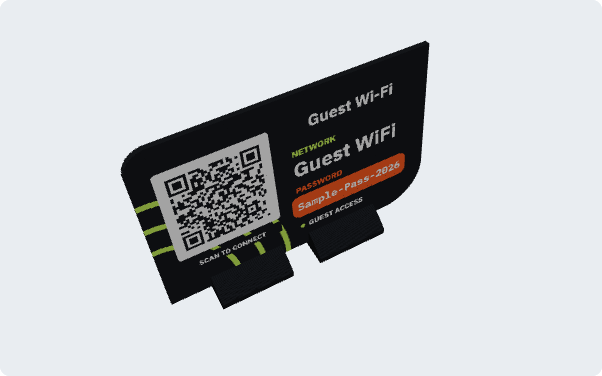
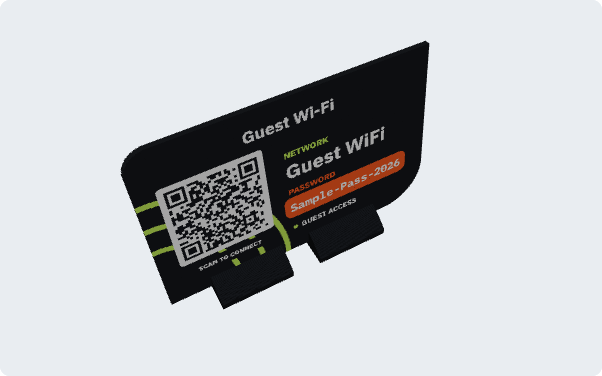
Center the heading across the whole card in a top row

Changed region(s): [[0.2392, 0.2048, 0.6877, 0.7314]]

diff --git a/index.html b/index.html
@@ -60,26 +60,26 @@ button:hover:not(:disabled){filter:brightness(1.06)}
 .stage{display:grid;gap:16px;justify-items:center}
 .wifi-card{width:min(100%,640px);aspect-ratio:150/94;background:var(--c-base);color:var(--c-white);
   border-radius:8% 0 16% 0 / 12.766% 0 25.532% 0;
-  padding:5.5% 6% 11% 6.7%;position:relative;display:grid;grid-template-columns:auto 1fr;gap:5%;align-items:center;
+  padding:5.5% 6% 8% 6.7%;position:relative;display:grid;grid-template-columns:auto 1fr;grid-template-rows:auto 1fr;gap:2cqi 5%;align-items:center;
   container-type:inline-size;box-shadow:0 18px 40px -18px rgba(10,20,35,.55)}
 .wifi-card.framed::before{content:"";position:absolute;inset:3.191% 2%;border:2px solid var(--c-a1);pointer-events:none;
   border-radius:6.25% 0 14.58% 0 / 10.2% 0 23.9% 0}
 /* 左下を中心にした電波の弧（半径 38/52/66 mm、幅 3 mm）。1 mm = 0.6667cqi */
 .wifi-card .corner{position:absolute;inset:0;border-radius:inherit;pointer-events:none;background:radial-gradient(circle at 0 100%,
   transparent 0 24.33cqi,var(--c-a1) 24.33cqi 26.33cqi,transparent 26.33cqi 33.67cqi,var(--c-a1) 33.67cqi 35.67cqi,transparent 35.67cqi 43cqi,var(--c-a1) 43cqi 45cqi,transparent 45cqi)}
-.card-left{display:grid;gap:3cqi;min-width:0;position:relative;z-index:1}
-.card-head{display:flex;align-items:center;justify-content:center;gap:2.6cqi;min-width:0}
+.card-left{grid-row:2;grid-column:2;display:grid;gap:3cqi;min-width:0;position:relative;z-index:1}
+.card-head{grid-row:1;grid-column:1/-1;display:flex;align-items:center;justify-content:center;gap:2.6cqi;min-width:0}
 .card-head svg{width:7cqi;height:auto;flex:none;color:var(--c-a1)}
 .card-head canvas{height:8cqi;width:auto;max-width:30cqi;flex:none}
 .card-title{font-size:5.3cqi;font-weight:700;line-height:1.15;overflow-wrap:anywhere}
 .k{font-size:3cqi;font-weight:700;margin:0;color:var(--c-a1)}
 .k.pw{color:var(--c-a2)}
-.v{font-size:7.3cqi;font-weight:700;margin:0;line-height:1.25;overflow-wrap:anywhere}
+.v{font-size:7cqi;font-weight:700;margin:0;line-height:1.25;overflow-wrap:anywhere}
 .v.pwv{font-family:"IBM Plex Mono",ui-monospace,Menlo,monospace;font-weight:600;justify-self:start;background:var(--c-a2);color:#fff;padding:.8cqi 2cqi;border-radius:2.6cqi;font-size:4.7cqi;white-space:nowrap}
 .card-foot{font-size:2.9cqi;font-weight:700;margin-top:1cqi;display:flex;align-items:center;gap:1.4cqi}
 .card-foot::before{content:"";width:1.4cqi;height:1.4cqi;border-radius:50%;background:var(--c-a1)}
-.qr-wrap{order:-1;align-self:end;display:grid;gap:1.4cqi;justify-items:center;position:relative;z-index:1}
-.qr-box{background:var(--c-white);border-radius:8px;padding:2cqi;width:36cqi}
+.qr-wrap{grid-row:2;grid-column:1;align-self:end;display:grid;gap:1.4cqi;justify-items:center;position:relative;z-index:1}
+.qr-box{background:var(--c-white);border-radius:8px;padding:2cqi;width:33.33cqi}
 .qr-box svg{display:block;width:100%;height:auto}
 .qr-cap{font-size:2.6cqi;font-weight:700;background:var(--c-base);padding:.5cqi 1.6cqi;border-radius:1cqi}
 .actions{display:flex;flex-wrap:wrap;gap:8px;justify-content:center}
@@ -216,7 +216,6 @@ footer{grid-column:1/-1;font-size:.8rem;color:var(--muted);text-align:center}
   <section class="stage">
     <div class="wifi-card" id="card">
       <span class="corner" id="cCorner" aria-hidden="true"></span>
-      <div class="card-left">
         <div class="card-head">
           <svg id="cIcon" viewBox="0 0 48 36" aria-hidden="true" fill="none" stroke="currentColor" stroke-width="4" stroke-linecap="round">
             <path d="M4 12a28 28 0 0 1 40 0"/><path d="M11 19a18 18 0 0 1 26 0"/><path d="M18 26a8 8 0 0 1 12 0"/>
@@ -225,6 +224,7 @@ footer{grid-column:1/-1;font-size:.8rem;color:var(--muted);text-align:center}
           <canvas id="cLogo" hidden></canvas>
           <span class="card-title" id="cTitle"></span>
         </div>
+      <div class="card-left">
         <div><p class="k" id="cNetL"></p><p class="v" id="cSsid"></p></div>
         <div id="cPwBlock"><p class="k pw" id="cPwL"></p><p class="v pwv" id="cPw"></p></div>
         <div class="card-foot" id="cFoot"></div>
@@ -474,32 +474,32 @@ footer{grid-column:1/-1;font-size:.8rem;color:var(--muted);text-align:center}
     // 左下を中心にした電波の弧。キャプション用に弧を切り欠く
     if(corner){const g=G.a1;g.lineWidth=S(3);g.lineCap="butt";
       for(const r of [38,52,66]){g.beginPath();g.arc(0,S(94),S(r),-Math.PI/2,0);g.stroke();}
-      g.globalCompositeOperation="destination-out";g.fillRect(S(10),S(70),S(54),S(7.5));g.globalCompositeOperation="source-over";g.lineCap="round";}
+      g.globalCompositeOperation="destination-out";g.fillRect(S(10),S(73.5),S(50),S(8.5));g.globalCompositeOperation="source-over";g.lineCap="round";}
     if($("frame").checked){G.a1.lineWidth=S(1.2);rrc(G.a1,S(3),S(3),S(144),S(88),[S(9),0,S(21),0]);G.a1.stroke();}
 
     // 見出し行: ロゴ（高さ12mm枠）または Wi-Fi アイコン + 見出し
-    // 見出し（ロゴ + タイトル）は右列（x 74〜140 mm）の中央に置く
-    const T=$("title").value,asp=logoImg?logoAspect():1,lw=logoImg?Math.min(12*asp,45):0,gap=logoImg?4:0,avail=66-lw-gap;
+    // 見出し（ロゴ + タイトル）はカード全体の中央（x=75 mm）に置く
+    const T=$("title").value,asp=logoImg?logoAspect():1,lw=logoImg?Math.min(10*asp,45):0,gap=logoImg?4:0,avail=126-lw-gap;
     G.white.font=`700 ${S(8)}px ${SANS}`;
-    const tw=T?Math.min(G.white.measureText(T).width/S(1),Math.max(avail,0)):0,x0=107-(lw+gap+tw)/2;
+    const tw=T?Math.min(G.white.measureText(T).width/S(1),Math.max(avail,0)):0,x0=75-(lw+gap+tw)/2;
     if(logoImg){
       const lh=lw/asp,pw=Math.max(1,Math.round(S(lw))),ph=Math.max(1,Math.round(S(lh)));
-      G[$("logoLayer").value].drawImage(maskToCanvas(logoMask(pw,ph),pw,ph,"#ffffff"),Math.round(S(x0)),Math.round(S(8+(12-lh)/2)));
+      G[$("logoLayer").value].drawImage(maskToCanvas(logoMask(pw,ph),pw,ph,"#ffffff"),Math.round(S(x0)),Math.round(S(13-lh/2)));
     }
-    text(G.white,T,x0+lw+gap,20,8,700,SANS,tw);
+    text(G.white,T,x0+lw+gap,16,8,700,SANS,tw);
 
-    text(G.a1,L.net,74,34,4.6,700,SANS,66);
-    text(G.white,$("ssid").value,74,46.5,11,700,SANS,66);
+    text(G.a1,L.net,70,33,4.6,700,SANS,68);
+    text(G.white,$("ssid").value,70,45.5,10.5,700,SANS,68);
     if(showPwOn()){
-      text(G.a2,L.pw,74,57,4.6,700,SANS,66);
-      rrc(G.a2,S(71),S(59.5),S(68),S(14),[S(4),S(4),S(4),S(4)]);G.a2.fill();
-      text(G.white,$("pw").value,74,69,7,600,MONO,62);
+      text(G.a2,L.pw,70,56,4.6,700,SANS,68);
+      rrc(G.a2,S(67),S(58),S(72),S(13.5),[S(4),S(4),S(4),S(4)]);G.a2.fill();
+      text(G.white,$("pw").value,70,67.5,7,600,MONO,66);
     }
-    if($("foot").value){G.a1.beginPath();G.a1.arc(S(75.6),S(80.4),S(1.3),0,Math.PI*2);G.a1.fill();text(G.white,$("foot").value,79,82,4.4,700,SANS,58);}
-    text(G.white,L.scan,37,76,3.8,700,SANS,48,"center");
+    if($("foot").value){G.a1.beginPath();G.a1.arc(S(71.6),S(78.8),S(1.3),0,Math.PI*2);G.a1.fill();text(G.white,$("foot").value,75,80.2,4.4,700,SANS,62);}
+    text(G.white,L.scan,35,79.5,3.6,700,SANS,46,"center");
 
     let moduleMm=0;
-    const px=Math.round(S(10)),py=Math.round(S(14)),P=Math.round(S(54));
+    const px=Math.round(S(10)),py=Math.round(S(22)),P=Math.round(S(50));
     rr(G.white,px,py,P,P,S(2));G.white.fill();
     G.a1.globalCompositeOperation="destination-out";rr(G.a1,px,py,P,P,S(2));G.a1.fill();G.a1.globalCompositeOperation="source-over";
     if(lastQr){
